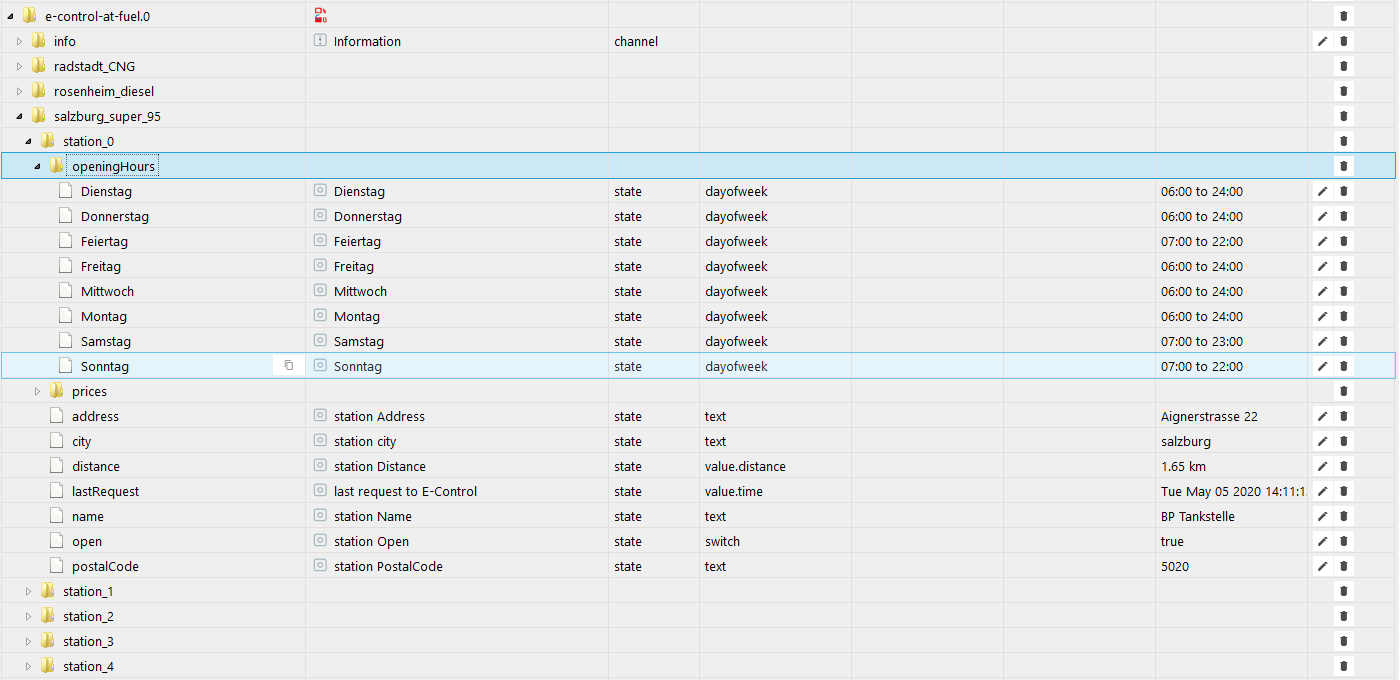
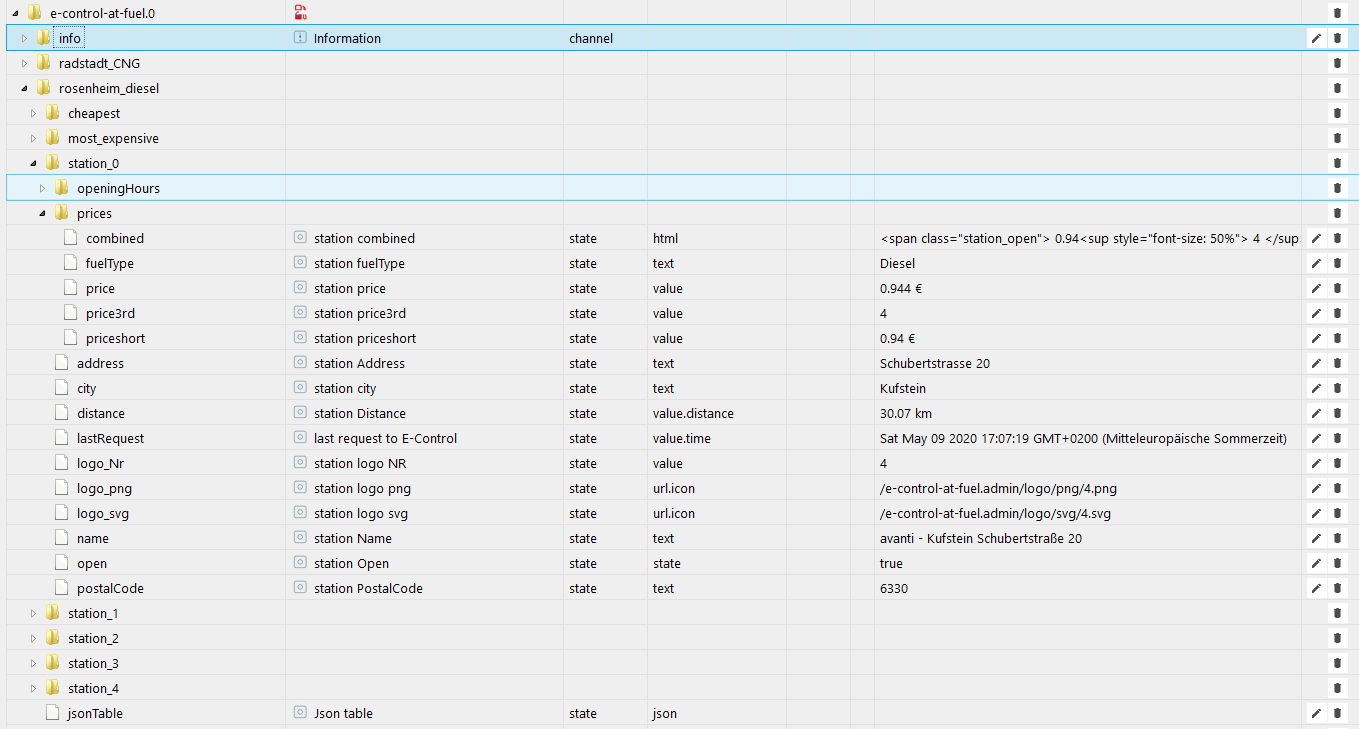
README.md update and add new state

diff --git a/main.js b/main.js
@@ -246,6 +246,18 @@ class EControlAtFuel extends utils.Adapter {
 									native: {},
 								});
 
+								await this.extendObjectAsync(`${cityName[i]}_${fuel[i]}.station_${[c]}.prices.combined`, {
+									type: 'state',
+									common: {
+										name: `station combined`,
+										type: 'string',
+										role: 'html',
+										read: true,
+										write: false
+									},
+									native: {},
+								});
+
 								await this.extendObjectAsync(`${cityName[i]}_${fuel[i]}.station_${[c]}.lastRequest`, {
 									type: 'state',
 									common: {
@@ -433,6 +445,18 @@ class EControlAtFuel extends utils.Adapter {
 							native: {},
 						});
 
+						await this.extendObjectAsync(`${cityName[i]}_${fuel[i]}.${folder[v]}.prices.combined`, {
+							type: 'state',
+							common: {
+								name: `station combined`,
+								type: 'string',
+								role: 'html',
+								read: true,
+								write: false
+							},
+							native: {},
+						});
+
 						await this.extendObjectAsync(`${cityName[i]}_${fuel[i]}.${folder[v]}.lastRequest`, {
 							type: 'state',
 							common: {
@@ -470,6 +494,8 @@ class EControlAtFuel extends utils.Adapter {
 							},
 							native: {},
 						});
+
+
 					}
 				}
 			}
@@ -574,7 +600,7 @@ class EControlAtFuel extends utils.Adapter {
 						};
 
 						const logosName = ['aral', 'eni', 'shell', 'omv', 'avanti', 'bp', 'jet', 'turmöl', 'lagerhaus', 'avia', 'a1', 'diskont', 'iq', 'sb_tankstelle', 'land', 'thrainer',
-							'inn-tank', 'fillup', 'gutmann', 'holzknecht', 'diesel', 'genol_lagerhaustankstelle', 'mosonyi','lagerhaus_genol'];
+							'inn_tank', 'fillup', 'gutmann', 'holzknecht', 'diesel', 'genol_lagerhaustankstelle', 'mosonyi', 'lagerhaus_genol', 'pfluger'];
 
 						console.log(`prices: ${JSON.stringify(logosName)}`);
 						this.log.debug(`logosName : ${JSON.stringify(logosName)}`);
@@ -586,14 +612,17 @@ class EControlAtFuel extends utils.Adapter {
 						this.setStateAsync(`${cityName[i]}_${fuel[i]}.station_${[c]}.distance`, `${stationDistance[c]}`, true);
 						this.setStateAsync(`${cityName[i]}_${fuel[i]}.station_${[c]}.address`, `${await stationAddress[c]}`, true);
 						this.setStateAsync(`${cityName[i]}_${fuel[i]}.station_${[c]}.lastRequest`, { val: Date.now(), ack: true });
-						// @ts-ignore
 						this.setStateAsync(`${cityName[i]}_${fuel[i]}.station_${[c]}.prices.price`, `${(await prices[c]).price}`, true);
 						this.setStateAsync(`${cityName[i]}_${fuel[i]}.station_${[c]}.postalCode`, `${await stationPostalCode[c]}`, true);
 						this.setStateAsync(`${cityName[i]}_${fuel[i]}.station_${[c]}.prices.fuelType`, `${await stationFuelType[c]}`, true);
-						// @ts-ignore
 						this.setStateAsync(`${cityName[i]}_${fuel[i]}.station_${[c]}.prices.price3rd`, `${(await prices[c]).price3rd}`, true);
-						// @ts-ignore
 						this.setStateAsync(`${cityName[i]}_${fuel[i]}.station_${[c]}.prices.priceshort`, `${(await prices[c]).priceshort}`, true);
+						if (stationOpen[c]) {
+							this.setStateAsync(`${cityName[i]}_${fuel[i]}.station_${[c]}.prices.combined`, `<span class="station_open"> ${(await prices[c]).priceshort}<sup style="font-size: 50%"> ${(await prices[c]).price3rd} </sup> <span class="station_combined_euro">€</span></span>`, true);
+						}
+						else {
+							this.setStateAsync(`${cityName[i]}_${fuel[i]}.station_${[c]}.prices.combined`, `<span class="station_closed"> ${(await prices[c]).priceshort}<sup style="font-size: 50%"> ${(await prices[c]).price3rd} </sup> <span class="station_combined_euro">€</span></span>`, true);
+						}
 						this.setStateAsync(`${cityName[i]}_${fuel[i]}.jsonTable`, `${JSON.stringify(jsonTable)}`, true);
 
 
@@ -604,14 +633,17 @@ class EControlAtFuel extends utils.Adapter {
 							this.setStateAsync(`${cityName[i]}_${fuel[i]}.cheapest.distance`, `${stationDistance[c]}`, true);
 							this.setStateAsync(`${cityName[i]}_${fuel[i]}.cheapest.address`, `${await stationAddress[c]}`, true);
 							this.setStateAsync(`${cityName[i]}_${fuel[i]}.cheapest.lastRequest`, { val: Date.now(), ack: true });
-							// @ts-ignore
 							this.setStateAsync(`${cityName[i]}_${fuel[i]}.cheapest.prices.price`, `${(await prices[c]).price}`, true);
 							this.setStateAsync(`${cityName[i]}_${fuel[i]}.cheapest.postalCode`, `${await stationPostalCode[c]}`, true);
 							this.setStateAsync(`${cityName[i]}_${fuel[i]}.cheapest.prices.fuelType`, `${await stationFuelType[c]}`, true);
-							// @ts-ignore
 							this.setStateAsync(`${cityName[i]}_${fuel[i]}.cheapest.prices.price3rd`, `${(await prices[c]).price3rd}`, true);
-							// @ts-ignore
 							this.setStateAsync(`${cityName[i]}_${fuel[i]}.cheapest.prices.priceshort`, `${(await prices[c]).priceshort}`, true);
+							if (stationOpen[c]) {
+								this.setStateAsync(`${cityName[i]}_${fuel[i]}.cheapest.prices.combined`, `<span class="station_open"> ${(await prices[c]).priceshort}<sup style="font-size: 50%"> ${(await prices[c]).price3rd} </sup> <span class="station_combined_euro">€</span></span>`, true);
+							}
+							else {
+								this.setStateAsync(`${cityName[i]}_${fuel[i]}.cheapest.prices.combined`, `<span class="station_closed"> ${(await prices[c]).priceshort}<sup style="font-size: 50%"> ${(await prices[c]).price3rd} </sup> <span class="station_combined_euro">€</span></span>`, true);
+							}
 						}
 
 						if (c == '4') {
@@ -621,46 +653,73 @@ class EControlAtFuel extends utils.Adapter {
 							this.setStateAsync(`${cityName[i]}_${fuel[i]}.most_expensive.distance`, `${stationDistance[c]}`, true);
 							this.setStateAsync(`${cityName[i]}_${fuel[i]}.most_expensive.address`, `${await stationAddress[c]}`, true);
 							this.setStateAsync(`${cityName[i]}_${fuel[i]}.most_expensive.lastRequest`, { val: Date.now(), ack: true });
-							// @ts-ignore
 							this.setStateAsync(`${cityName[i]}_${fuel[i]}.most_expensive.prices.price`, `${(await prices[c]).price}`, true);
 							this.setStateAsync(`${cityName[i]}_${fuel[i]}.most_expensive.postalCode`, `${await stationPostalCode[c]}`, true);
 							this.setStateAsync(`${cityName[i]}_${fuel[i]}.most_expensive.prices.fuelType`, `${await stationFuelType[c]}`, true);
-							// @ts-ignore
 							this.setStateAsync(`${cityName[i]}_${fuel[i]}.most_expensive.prices.price3rd`, `${(await prices[c]).price3rd}`, true);
-							// @ts-ignore
 							this.setStateAsync(`${cityName[i]}_${fuel[i]}.most_expensive.prices.priceshort`, `${(await prices[c]).priceshort}`, true);
-
+							if (stationOpen[c]) {
+								this.setStateAsync(`${cityName[i]}_${fuel[i]}.most_expensive.prices.combined`, `<span class="station_open"> ${(await prices[c]).priceshort}<sup style="font-size: 50%"> ${(await prices[c]).price3rd} </sup> <span class="station_combined_euro">€</span></span>`, true);
+							}
+							else {
+								this.setStateAsync(`${cityName[i]}_${fuel[i]}.most_expensive.prices.combined`, `<span class="station_closed"> ${(await prices[c]).priceshort}<sup style="font-size: 50%"> ${(await prices[c]).price3rd} </sup> <span class="station_combined_euro">€</span></span>`, true);
+							}
 						}
+						if (result.prices[0]) {
 
-						for (const logo in logosName) {
-							if (stationLogoName[0].toLowerCase().replace(/-/gi, '_') == logosName[logo]) {
-								console.log(`${logosName[logo]} Nr: ${logo} `);
-								for (const f in format) {
-									this.setStateAsync(`${cityName[i]}_${fuel[i]}.station_${[c]}.logo_${format[f]}`, `/e-control-at-fuel.admin/logo/${format[f]}/${logo}.${format[f]}`, true);
-									this.setStateAsync(`${cityName[i]}_${fuel[i]}.station_${[c]}.logo_Nr`, `${logo}`, true);
-									this.log.debug(`${cityName[i]}_${fuel[i]}.station_${[c]}.logo_Nr: ${logo}`);
-									this.log.debug(`[LOGO] /e-control-at-fuel.admin/logo/${logo}.${format[f]}`);
-									console.log(`${logosName[logo]} [LOGO] /e-control-at-fuel.admin/logo/${logo}.${format[f]}`);
-									if (c == '0') {
-
-										this.setStateAsync(`${cityName[i]}_${fuel[i]}.cheapest.logo_${format[f]}`, `/e-control-at-fuel.admin/logo/${format[f]}/${logo}.${format[f]}`, true);
-										this.setStateAsync(`${cityName[i]}_${fuel[i]}.cheapest.logo_Nr`, `${logo}`, true);
-										this.log.debug(`${cityName[i]}_${fuel[i]}.cheapest.logo_Nr: ${logo}`);
+							for (const logo in logosName) {
+								if (stationLogoName[0].toLowerCase().replace(/-/gi, '_') == logosName[logo]) {
+									console.log(`${logosName[logo]} Nr: ${logo} `);
+									for (const f in format) {
+										this.setStateAsync(`${cityName[i]}_${fuel[i]}.station_${[c]}.logo_${format[f]}`, `/e-control-at-fuel.admin/logo/${format[f]}/${logo}.${format[f]}`, true);
+										this.setStateAsync(`${cityName[i]}_${fuel[i]}.station_${[c]}.logo_Nr`, `${logo}`, true);
+										this.log.debug(`${cityName[i]}_${fuel[i]}.station_${[c]}.logo_Nr: ${logo}`);
 										this.log.debug(`[LOGO] /e-control-at-fuel.admin/logo/${logo}.${format[f]}`);
-									}
+										console.log(`${logosName[logo]} [LOGO] /e-control-at-fuel.admin/logo/${logo}.${format[f]}`);
+										if (c == '0') {
 
-									if (c == '4') {
+											this.setStateAsync(`${cityName[i]}_${fuel[i]}.cheapest.logo_${format[f]}`, `/e-control-at-fuel.admin/logo/${format[f]}/${logo}.${format[f]}`, true);
+											this.setStateAsync(`${cityName[i]}_${fuel[i]}.cheapest.logo_Nr`, `${logo}`, true);
+											this.log.debug(`${cityName[i]}_${fuel[i]}.cheapest.logo_Nr: ${logo}`);
+											this.log.debug(`[LOGO] /e-control-at-fuel.admin/logo/${logo}.${format[f]}`);
+										}
 
-										this.setStateAsync(`${cityName[i]}_${fuel[i]}.most_expensive.logo_${format[f]}`, `/e-control-at-fuel.admin/logo/${format[f]}/${logo}.${format[f]}`, true);
-										this.setStateAsync(`${cityName[i]}_${fuel[i]}.most_expensive.logo_Nr`, `${logo}`, true);
-										this.log.debug(`${cityName[i]}_${fuel[i]}.most_expensive.logo_Nr: ${logo}`);
-										this.log.debug(`[LOGO] /e-control-at-fuel.admin/logo/${logo}.${format[f]}`);
+										if (c == '4') {
+
+											this.setStateAsync(`${cityName[i]}_${fuel[i]}.most_expensive.logo_${format[f]}`, `/e-control-at-fuel.admin/logo/${format[f]}/${logo}.${format[f]}`, true);
+											this.setStateAsync(`${cityName[i]}_${fuel[i]}.most_expensive.logo_Nr`, `${logo}`, true);
+											this.log.debug(`${cityName[i]}_${fuel[i]}.most_expensive.logo_Nr: ${logo}`);
+											this.log.debug(`[LOGO] /e-control-at-fuel.admin/logo/${logo}.${format[f]}`);
+										}
 									}
+									break;
 								}
-								break;
+							}
+						}
+						else {
+							for (const f in format) {
+								this.setStateAsync(`${cityName[i]}_${fuel[i]}.station_${[c]}.logo_${format[f]}`, ``, true);
+								this.setStateAsync(`${cityName[i]}_${fuel[i]}.station_${[c]}.logo_Nr`, ``, true);
+								this.log.debug(`${cityName[i]}_${fuel[i]}.station_${[c]}.logo_Nr: 'station not found'`);
 							}
 						}
 					}
+					else {
+						this.log.debug(`${cityName[i]}_${fuel[i]}.station_${[c]} 'station not found'`);
+						this.setStateAsync(`${cityName[i]}_${fuel[i]}.station_${[c]}.name`, ``, true);
+						this.setStateAsync(`${cityName[i]}_${fuel[i]}.station_${[c]}.city`, ``, true);
+						this.setStateAsync(`${cityName[i]}_${fuel[i]}.station_${[c]}.open`, ``, true);
+						this.setStateAsync(`${cityName[i]}_${fuel[i]}.station_${[c]}.distance`, ``, true);
+						this.setStateAsync(`${cityName[i]}_${fuel[i]}.station_${[c]}.address`, ``, true);
+						this.setStateAsync(`${cityName[i]}_${fuel[i]}.station_${[c]}.lastRequest`, { val: Date.now(), ack: true });
+						this.setStateAsync(`${cityName[i]}_${fuel[i]}.station_${[c]}.prices.price`, ``, true);
+						this.setStateAsync(`${cityName[i]}_${fuel[i]}.station_${[c]}.postalCode`, `$`, true);
+						this.setStateAsync(`${cityName[i]}_${fuel[i]}.station_${[c]}.prices.fuelType`, ``, true);
+						this.setStateAsync(`${cityName[i]}_${fuel[i]}.station_${[c]}.prices.price3rd`, ``, true);
+						this.setStateAsync(`${cityName[i]}_${fuel[i]}.station_${[c]}.prices.priceshort`, ``, true);
+					}
+
+
 
 					for (const d in openingHours) {
 						if (result.prices[0]) {
@@ -670,8 +729,16 @@ class EControlAtFuel extends utils.Adapter {
 							if (c == '0') {
 								this.setStateAsync(`${cityName[i]}_${fuel[i]}.cheapest.openingHours.${weekDay[d]}`, `${openingHours[d]}`, true);
 							}
+							if (c == '4') {
+								this.setStateAsync(`${cityName[i]}_${fuel[i]}.most_expensive.openingHours.${weekDay[d]}`, `${openingHours[d]}`, true);
+							}
+						}
+						else {
+							this.setStateAsync(`${cityName[i]}_${fuel[i]}.station_${[c]}.openingHours.${weekDay[d]}`, ``, true);
+
 						}
 					}
+
 				}
 			}
 		} catch (error) {

diff --git a/README.md b/README.md
@@ -18,20 +18,46 @@
 ### Fuel prices for Austria
 
 # Beta Release
+
 [forumbeitrag](https://forum.iobroker.net/topic/33033/e-control-at-fuel-kraftstoffpreise-f%C3%BCr-%C3%B6sterreich)
 
 ## Der Adapter liest die Spritpreise von E-Control.at aus:
 
 ![config](admin/config.png)
 
-Auf der config Seite muss man nur den Intervall **(die kleineste einstellbare Zeit ist 10 min)** setzen und die Latitude und Longitude eintragen diese könnt ihr hier nach schauen **https://www.latlong.net/** dann wählt man nur noch aus welche Sprit man will und fertig.
-sobald der Adapter startet wird ein Ordner für jede spalte, die auf der config Seite angelegt wurde, ein Ordner radius_x angelegt und in diese werden 5 Ordner für die Tankstellen angelegt.
+Auf der config Seite muss man nur den Intervall **(die kleineste einstellbare Zeit ist 10 min)** setzen und die Latitude und Longitude eintragen diese könnt ihr hier nach schauen **https://www.latlong.net/** dann wählt man nur noch aus welchem Sprit man will und fertig.
+sobald der Adapter startet wird ein Ordner für jede spalte, die auf der config Seite angelegt wurde, ein Ordner mit dem Stadtnamen und der Sprit Art z.B. **rosenheim_diesel** angelegt und in diese werden dann die Tankstellen Ordner angelegt die Anzahl hängt von den Tankstellen ab die ihre preis übermitteln des weiteren werden 2 Ordner angelegt die die billigsten und den teuerste Tankstellen angelegt und eine JSON Tabelle für alle Tankstellen die im Ordner angelegt wurden.
 
 ![config](admin/objects.png)
 
-Der Preis ist in 3 verschiedene Angaben geteilt einmal der normale preis z.B. **0.962€** beim 2ten wurde die **2** entfernt **0.96€** bei dieser variante kann man mit Hilfe von CSS und Bindings in der vis die entfernte **2** in klein anzeigen lasen z.B. so **0.96²€** und der 3te ist die entfernte **2**.
+Der Preis ist in 3 verschiedene Angaben geteilt einmal der normale preis z.B. **0.962€** beim 2ten wurde die **2** entfernt **0.96€** bei dieser Variante kann man mit Hilfe von CSS und Bindings in der vis die entfernte **2** in klein anzeigen lasen z.B. so **0.96²€** und der 3te ist die entfernte **2**.
+der state combined ist ein html code, der den priceshort und price3rd verbindet zu z.B. 0.93³€ dieser kann in der vis in html Widget genutzt werden.
 
 ![config](admin/price.png)
+
+![config](admin/html-widget.png)
+
+Ich empfehle damit Bindings zu arbeiten so z.B. **{e-control-at-fuel.0.radstadt_CNG.cheapest.prices.combined}** der Wert wird dann automatisch aktualisiert
+dem html wird eine CSS class mitgegeben hier noch die passende CSS:
+
+```
+
+.station_open {
+    color: blue;
+}
+
+.station_closed {
+    color: red !important; /* !important kann ggf. weggelassen werden */
+}
+
+/* € sign */
+.station_combined_euro {
+    font-family: Times;
+    font-size: 80%;
+}
+
+```
+
 _____________________
 
 ## To-Do
@@ -45,6 +71,11 @@ _____________________
 ____________________________
 
 ## Changelog
+
+### 0.0.8
+
+* (xXBJXx) added new stations + logos
+* (xXBJXx) new state prices.combined
 
 ### 0.0.7
 
